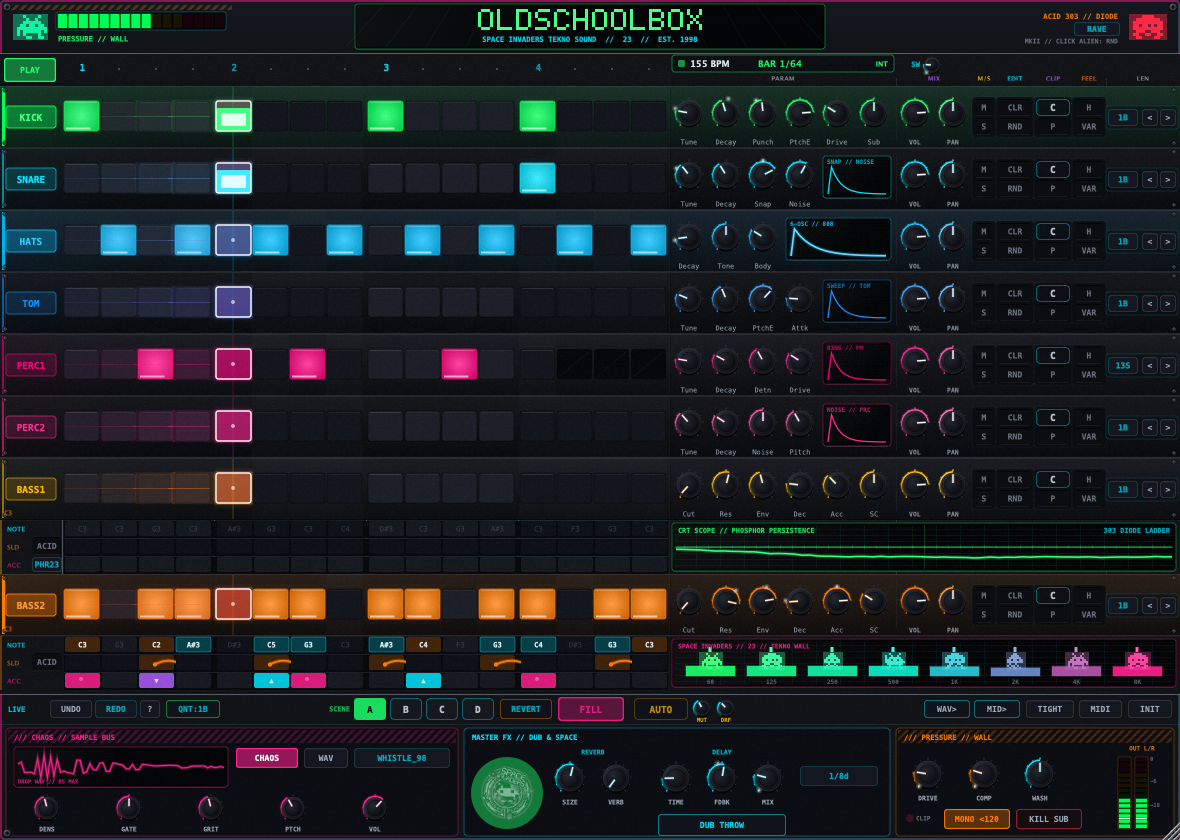
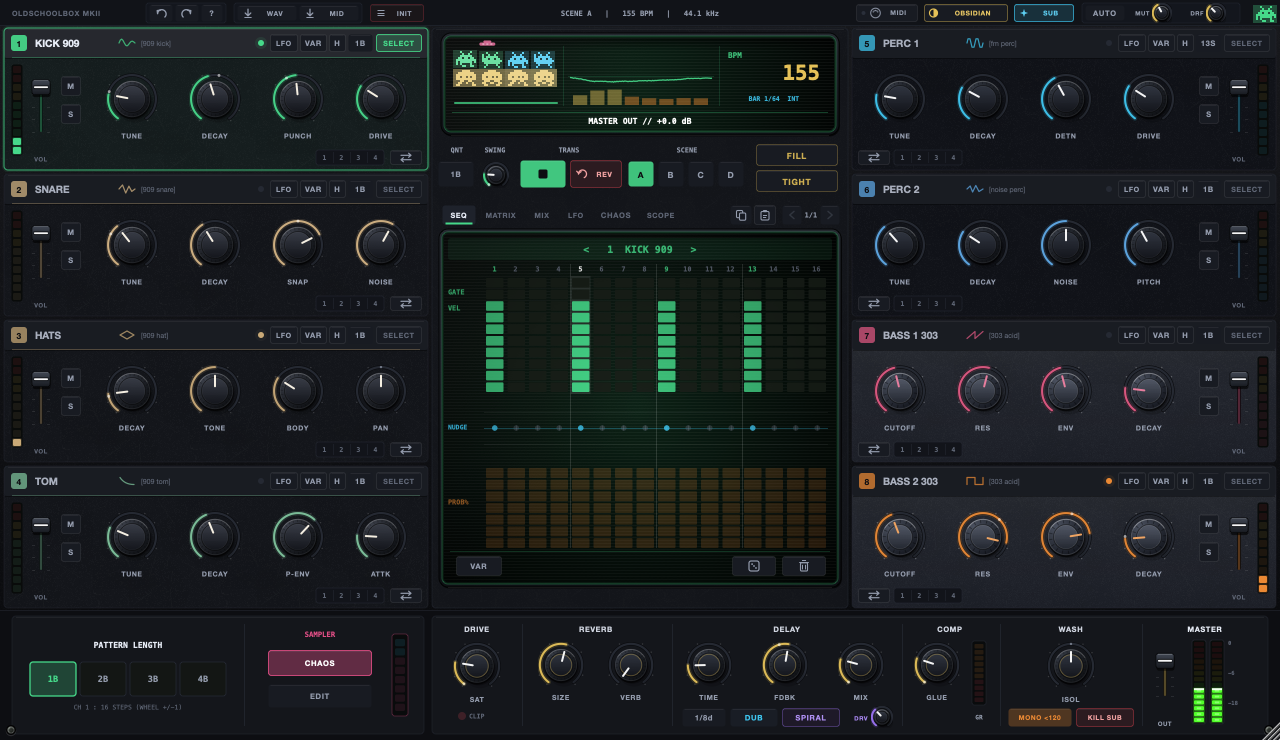
fix(ci,docs): switch macOS runner to macos-15, refresh screenshot, and sync README

diff --git a/README.md b/README.md
@@ -1,12 +1,12 @@
 # OldSchoolBox MKII
 
-An 8-channel procedural Acid / Free Tekno groovebox + underground sample chaos bus, built with JUCE 8 as a **VST3 / AU plugin and macOS Standalone app**.
-All 8 synth and drum voices are synthesized from scratch, paired with an RT-safe Chaos Sample Bus, hardware-inspired MKII arcade CRT UI, and live DJ performance controls.
+An 8-channel procedural Acid / Free Tekno groovebox + underground sample chaos bus, built with JUCE 8 as a **cross-platform VST3 / AU plugin and Standalone app (macOS Universal, Windows x64, Linux x86_64 & arm64)**.
+All 8 synth and drum voices are synthesized from scratch, paired with an RT-safe Chaos Sample Bus, SpiralFx performance dub unit, 13 hardware skins, and live DJ performance controls.
 
-![Platform](https://img.shields.io/badge/platform-macOS-lightgrey)
+![Platform](https://img.shields.io/badge/platform-macOS%20%7C%20Windows%20%7C%20Linux-lightgrey)
 ![Format](https://img.shields.io/badge/format-VST3%20%7C%20AU%20%7C%20Standalone-blue)
 ![License](https://img.shields.io/badge/license-MIT-green)
-![Version](https://img.shields.io/badge/version-0.7.2--MKII-orange)
+![Version](https://img.shields.io/badge/version-0.7.3--MKII-orange)
 
 ![OldSchoolBox MKII](screenshot.png)
 
@@ -60,11 +60,12 @@ Muted or non-soloed channels still tick their sidechain envelopes to avoid state
 - **Direct DAW Drag & Drop (`WAV>` / `MID>`)**: drag directly into Ableton, FL Studio, or Bitwig to export a 4-bar 24-bit WAV loop or multi-channel Drums + 303 Acid MIDI clip with zero save dialogs.
 
 ### MKII Hardware UI Craft (60 FPS)
-- **Ghost Dots**: luminous indicator on each knob arc showing the saved Scene value.
-- **Live Modulation Rings**: secondary glowing arc showing active sidechain, `AUTO`, and `CHAOS` modulation.
-- **Engineering Units HUD**: top CRT terminal displays real units on hover/drag (`55.0 Hz (A1)`, `185 ms`, `1.42 kHz`, `+9.0 dB [MACKIE SAT]`).
-- **Phase-Locked CRT Oscilloscope**: rising zero-crossing trigger keeps the 303 waveform locked and readable at 155+ BPM.
-- **Optical LED Persistence, Ambient Light Bleed, Hover Spotlight, 350 ms CRT Power-On, 70%-200% Vector Scaling**, and live **`THEME`** switcher (`RAVE` / `CRT` / `AMB`).
+- **13 Hardware Themes (`THEME` — Click: next | Shift+Click: menu)**: `OBSIDIAN`, `TR-909`, `ACID 303`, `CRT-98`, `SPIRAL`, `PIANO LED` (gleuomorphic piano-black gloss), `PORCELAIN` (ceramic white), `GAMEBOY`, `MIAMI 84`, `AMBER 82`, `TOXIC BIO`, `SAKURA`, and `GOLD MK2`.
+- **4-Slot Quick Jam Presets (`1 | 2 | 3 | 4` per channel)**: 1-click groove switching per instrument directly on each strip (`Shift+Click` saves custom groove, `Alt+Click` generates a variation).
+- **SpiralFx (`SPIRAL` + `DRV`)**: dedicated beat-synced Jet Flanger + 3/16 Gated Decaying Dub Delay + Distortion routed exclusively from `PERC 1`, `PERC 2`, and `CHAOS` (click: 2-beat throw; `Shift+Click`: latch).
+- **Beat-Synced Visual FX (`VIZ: OFF / SUB / RAVE`)**: 100% UI-thread reactive lighting (channel trigger halos, performance FX aura, chassis edge sub-bass bars, and animated Space Invaders arcade fleet with UFO Mothership & lasers reacting to bass, mids, and highs).
+- **Symmetric 3-Pillar Top Bar & Non-Intrusive Info View**: airgapped native vector icons, DIN 5-pin MIDI Out toggle, and centered hover/telemetry bar aligned over the CRT core.
+- **Master Output Fader (`OUT`) + 1176/SSL GR Meter**: dedicated vertical Master fader next to the L/R peak-hold meters, plus Ghost Dots, Live Modulation Rings, and Engineering Units HUD (`55.0 Hz (A1)`, `185 ms`, `+9.0 dB [MACKIE SAT]`).
 
 ---
 
